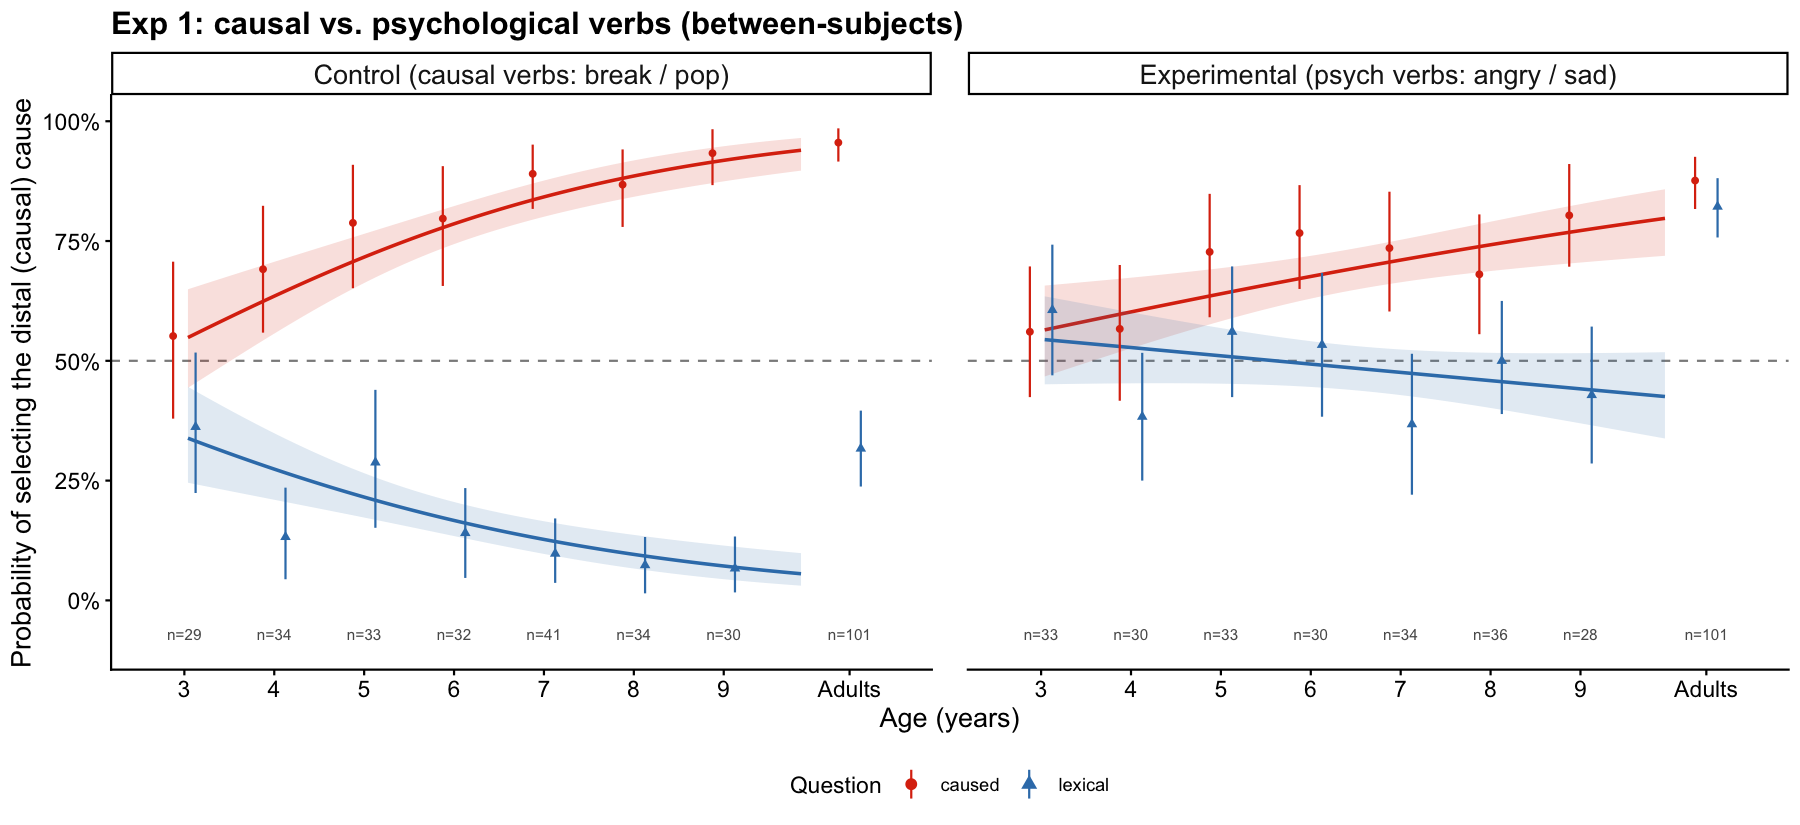
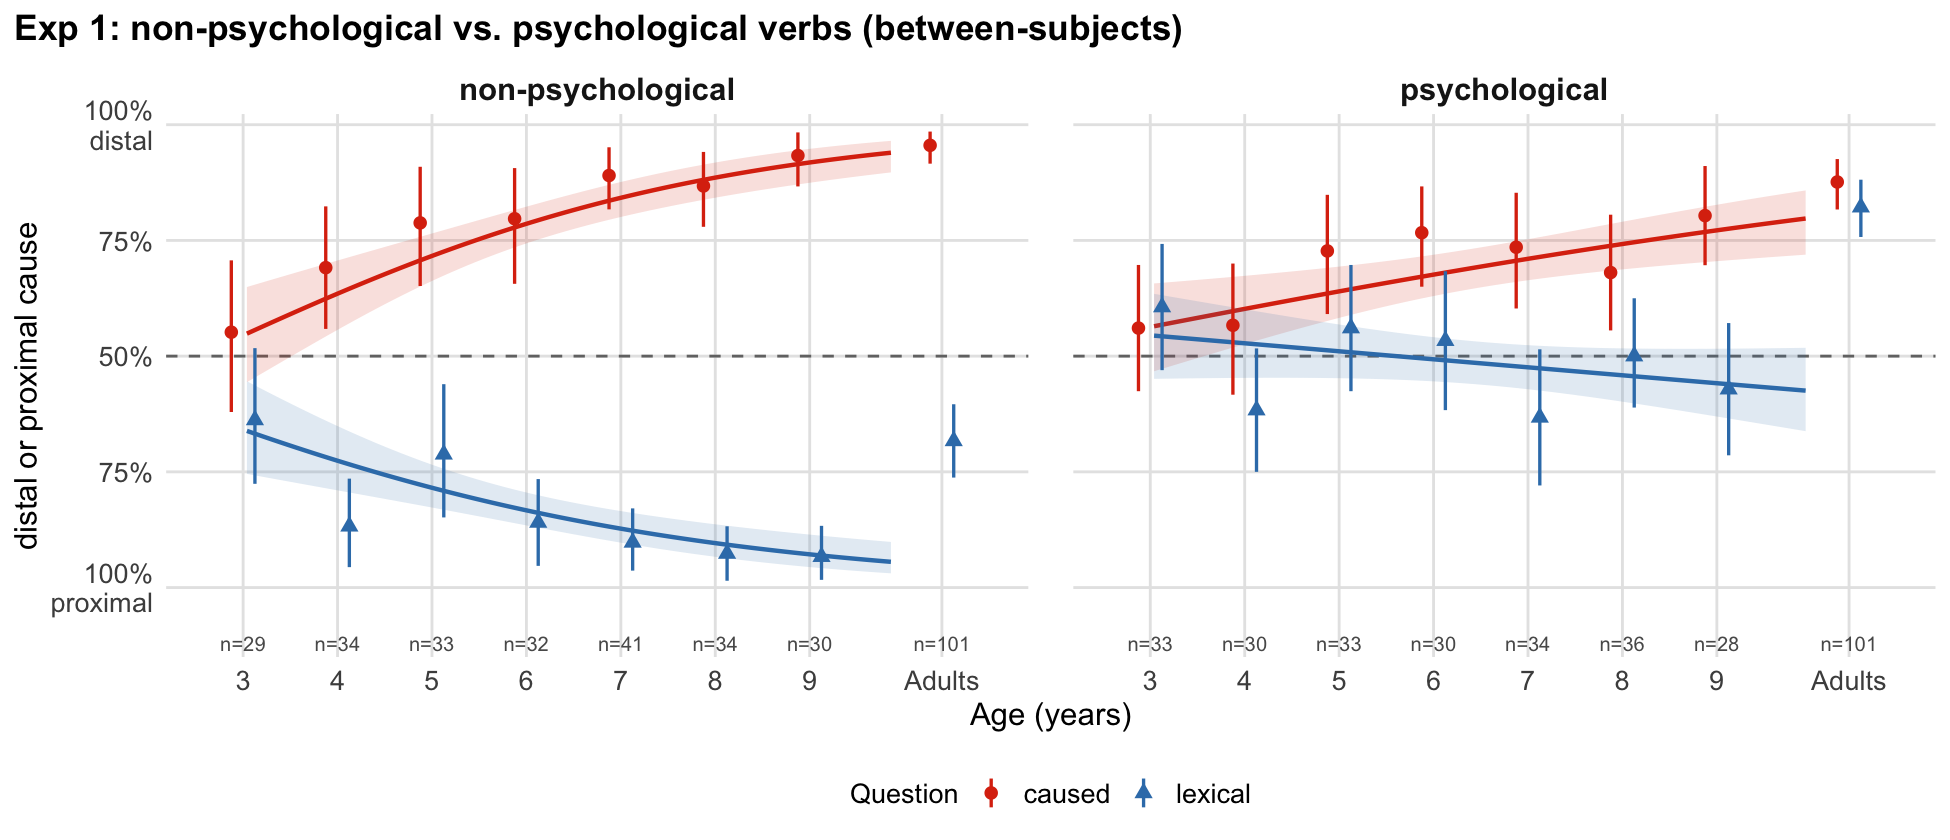
Restyle developmental figures per reference image
- mirrored, clearer y-axis (50% centered; 100% high-pole at top, 100% low-pole
  at bottom) with larger fonts, faint gridlines, and image-matched sizing
- exp2 y-axis relabeled absence / direct (was distal / proximal)
- relabel conditions: physical/control -> "non-psychological",
  mental/experimental -> "psychological" (facet labels + titles)
- parameterize plot_dev with pole_high / pole_low

diff --git a/code/R/R-readme.md b/code/R/R-readme.md
@@ -16,8 +16,8 @@ Each reads `../../data/experimentN/adults/expN_adults.csv` and
 `../../data/experimentN/children/expN_children.csv` and saves
 `../../figures/expN/expN_development.{pdf,png}`.
 
-- **exp1** — faceted Control (causal verbs) vs. Experimental (psych verbs).
-- **exp2** — faceted Physical vs. Mental (absence scenarios).
+- **exp1** — faceted non-psychological vs. psychological (verb type); y-axis distal/proximal.
+- **exp2** — faceted non-psychological vs. psychological (absence scenarios); y-axis absence/direct.
 - **exp3** — single panel (scared vs. surprised).
 
 Run each from this folder, e.g. `Rscript exp1.R`.
